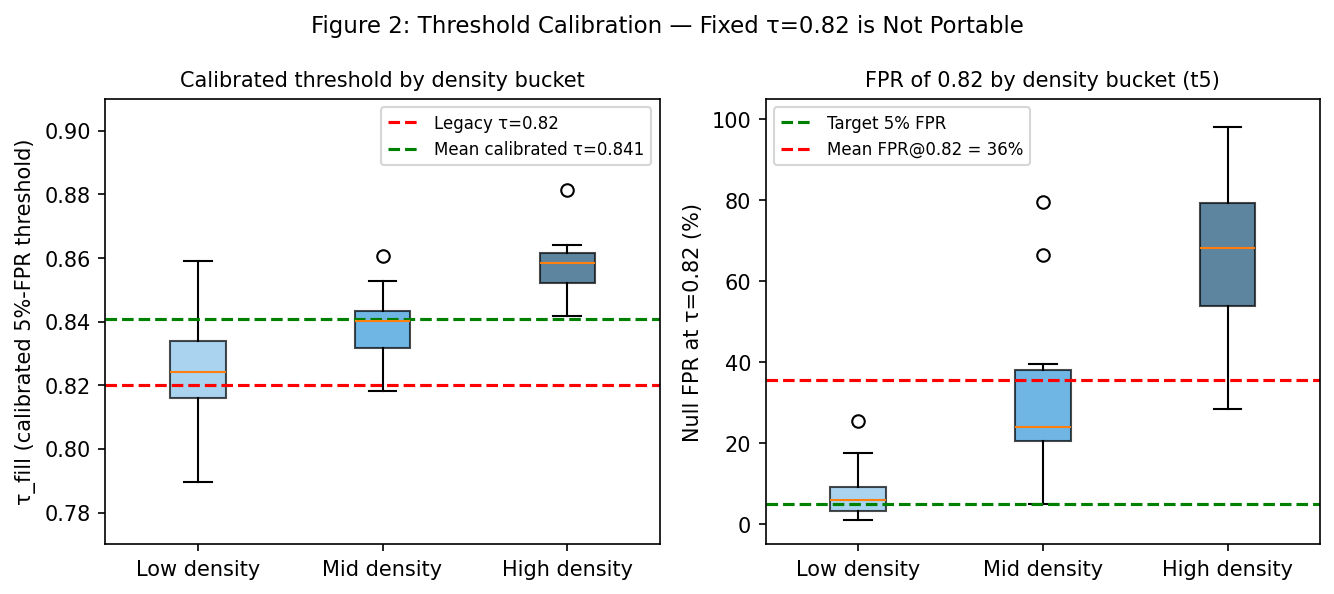
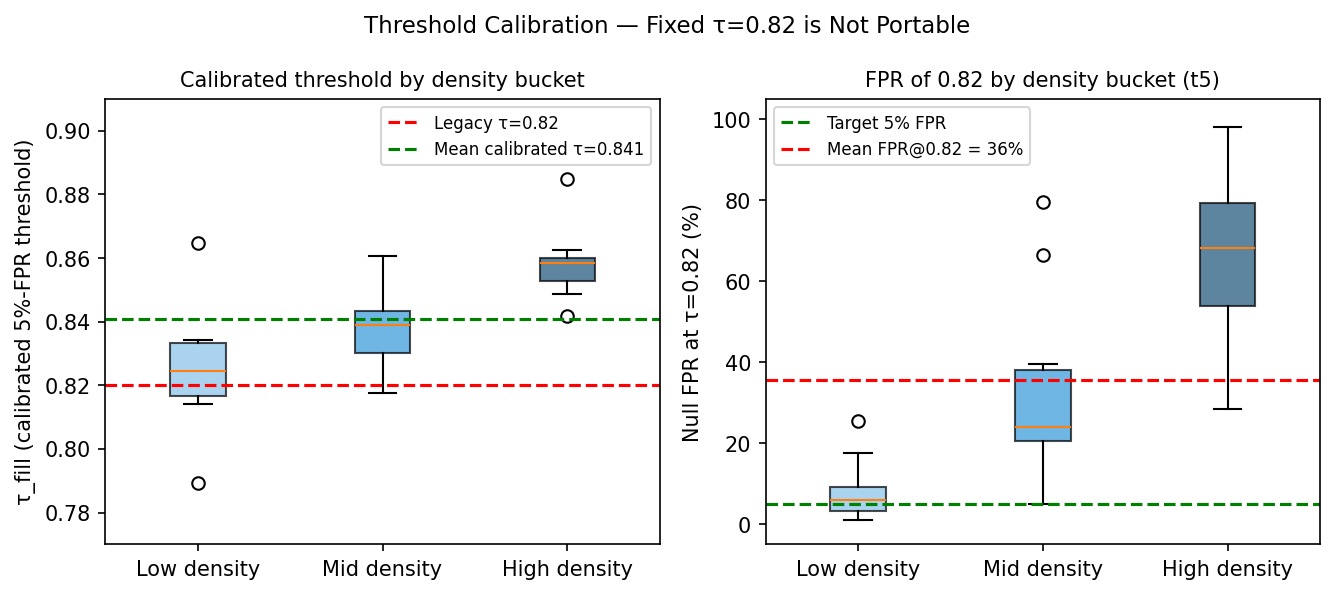
fix(paper2): remove hardcoded 'Figure N' from plot titles
All matplotlib figure titles no longer contain 'Figure N:' prefix —
LaTeX \caption numbering is authoritative. Regenerated fig2 and fig6.

diff --git a/scripts/temporal_validation/generate_paper2_figures.py b/scripts/temporal_validation/generate_paper2_figures.py
@@ -88,7 +88,7 @@ def fig1_role_decomposition():
     ax.set_xticks(x)
     ax.set_xticklabels(labels, fontsize=10)
     ax.set_ylabel("Cases (%)", fontsize=11)
-    ax.set_title("Figure 1: Epistemic Role Decomposition (t5, n=200 sampled)", fontsize=11)
+    ax.set_title("Epistemic Role Decomposition", fontsize=11)
     ax.legend(loc="lower right", fontsize=9)
     ax.set_ylim(0, 115)
     ax.axhline(100, color="gray", lw=0.5, ls="--")
@@ -164,7 +164,7 @@ def fig2_threshold_calibration():
     ax.legend(fontsize=8)
     ax.set_ylim(-5, 105)
 
-    fig.suptitle("Figure 2: Threshold Calibration — Fixed τ=0.82 is Not Portable", fontsize=11)
+    fig.suptitle("Threshold Calibration — Fixed τ=0.82 is Not Portable", fontsize=11)
     plt.tight_layout()
     out = FIGURES_DIR / "fig2_threshold_calibration.pdf"
     plt.savefig(out, bbox_inches="tight")
@@ -264,7 +264,7 @@ def fig4_anchor_exposure():
             ax.text(j, i, f"{matrix[i,j]:.1f}%", ha="center", va="center",
                     fontsize=7, color="black" if matrix[i,j] < 10 else "white")
 
-    ax.set_title("Figure 4: Anchor Exposure (hybrid gate pass rate)", fontsize=10)
+    ax.set_title("Anchor Exposure (hybrid gate pass rate)", fontsize=10)
     plt.tight_layout()
     out = FIGURES_DIR / "fig4_anchor_exposure.pdf"
     plt.savefig(out, bbox_inches="tight")
@@ -337,8 +337,7 @@ def fig5_void_valley(split="t5", anchor_id="sched_opt", case_id=None):
 
     ax.set_xlabel("Interpolation λ (0=A, 1=B)", fontsize=11)
     ax.set_ylabel("Mean k-NN cosine sim (local density)", fontsize=11)
-    ax.set_title(f"Figure 5: Local Density Profile Along A–B Bridge\n"
-                 f"Anchor: {anchor_id}  |  Split: {split}", fontsize=10)
+    ax.set_title(f"Local Density Profile Along A–B Bridge\nAnchor: {anchor_id}  |  Split: {split}", fontsize=10)
     ax.legend(fontsize=9)
     plt.tight_layout()
     out = FIGURES_DIR / "fig5_void_valley.pdf"
@@ -421,8 +420,7 @@ def fig6_calibration_curve():
                color="red", lw=1, ls=":", alpha=0.5)
     ax.set_xlabel("Expected FPR (α)", fontsize=11)
     ax.set_ylabel("Observed held-out FPR", fontsize=11)
-    ax.set_title("Figure 6: Null Calibration Curve\n"
-                 "Points near diagonal → calibration valid", fontsize=10)
+    ax.set_title("Null Calibration Curve\nPoints near diagonal → calibration valid", fontsize=10)
     ax.legend(fontsize=8)
     ax.set_xlim(0, 0.22); ax.set_ylim(0, 0.22)
     plt.tight_layout()